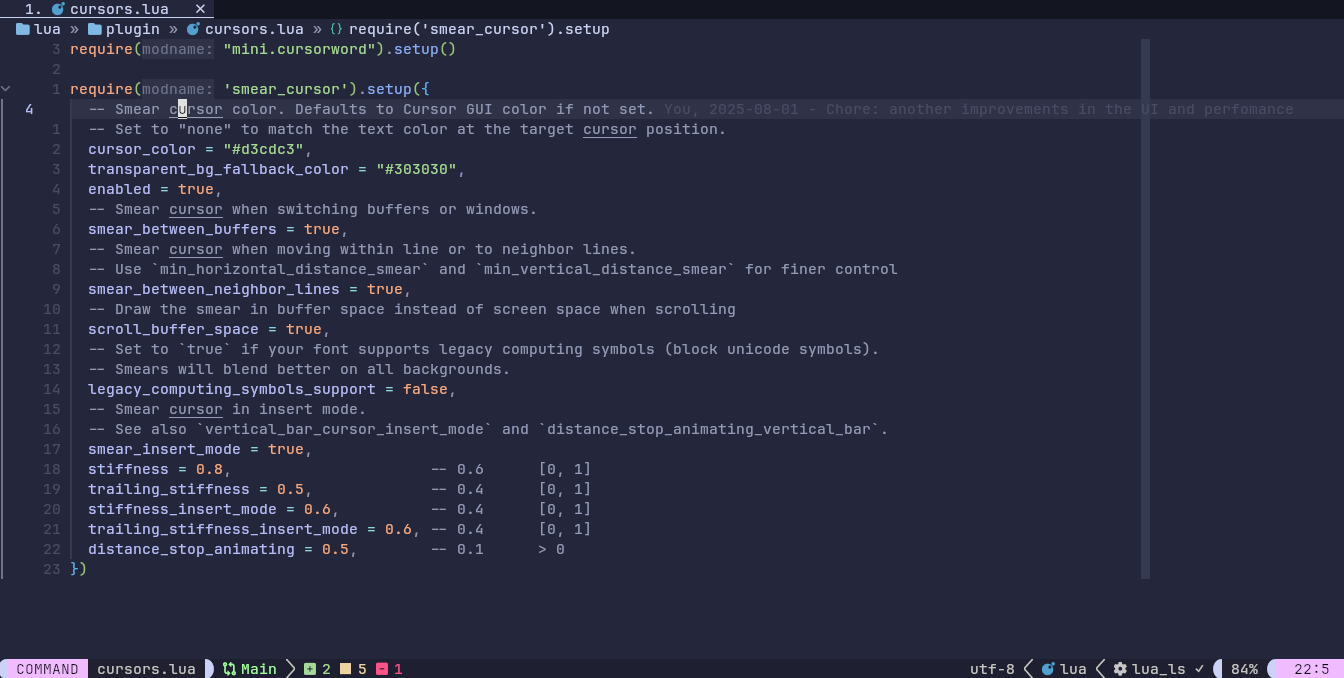
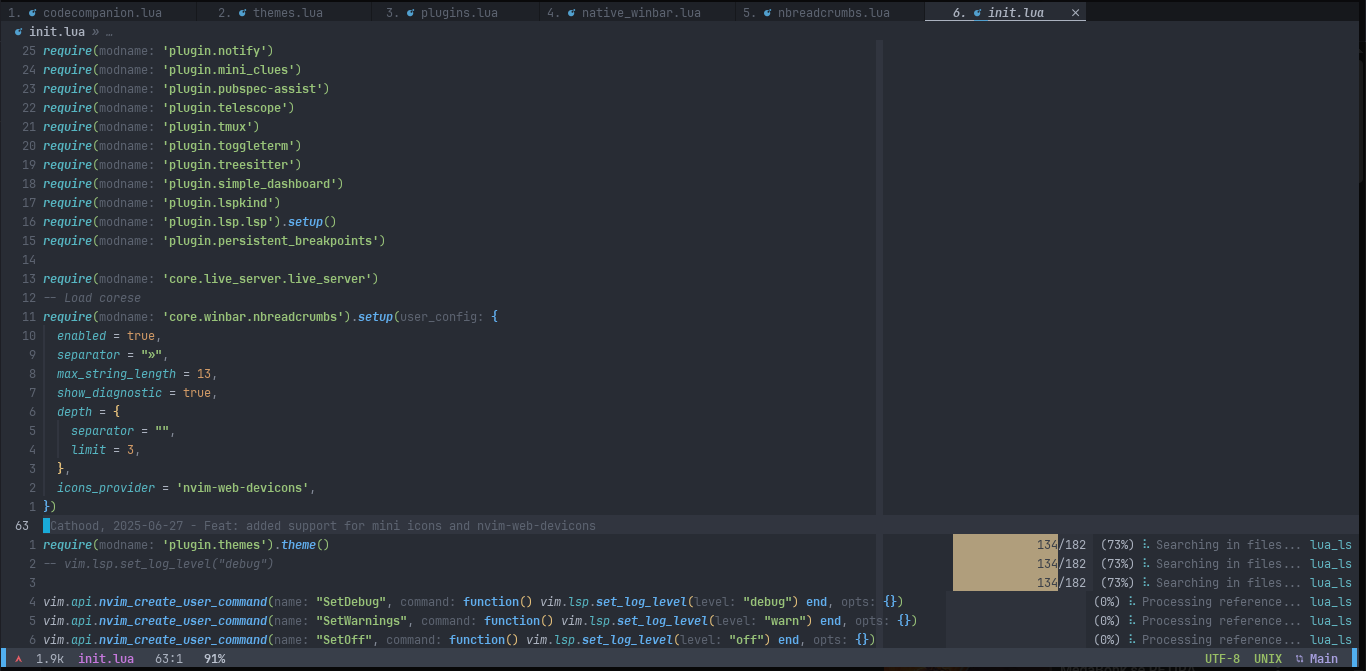
Feat: updated some configurations to be more confortable

diff --git a/README.md b/README.md
@@ -7,7 +7,7 @@
 export PATH="$PATH":"/opt/nvim/bin"
 // and you need to have these libraries installed already
 // to avoid issues with the clipboard and more
-sudo apt install xclip git make cmake gcc g++ yarn clang pkg-config ninja-build fzf ripgrep fd-find luarocks
+sudo apt-get updated && sudo apt install xclip git make cmake gcc g++ yarn clang pkg-config ninja-build fzf ripgrep fd-find luarocks
 ```
 
 ## Instructions to configure AI
@@ -32,10 +32,6 @@ sudo apt install libgtk-3-dev
 ```
 
 ## Language requirements
-
-## Using mason
-
-...
 
 ## Manual installation
 
@@ -176,8 +172,6 @@ sudo apt install libgtk-3-dev
 * Flutter
     If you're facing issues with linux not recognizing your phone
     check these sites:
-
-
     1. [adb-device-list-doesnt-show-phone](https://askubuntu.com/questions/863587/adb-device-list-doesnt-show-phone)
     2. [android-adb-no-permissions-for-device](https://stackoverflow.com/questions/77925533/android-adb-no-permissions-for-device)
     3. [setup](https://docs.flutter.dev/platform-integration/linux/setup)
